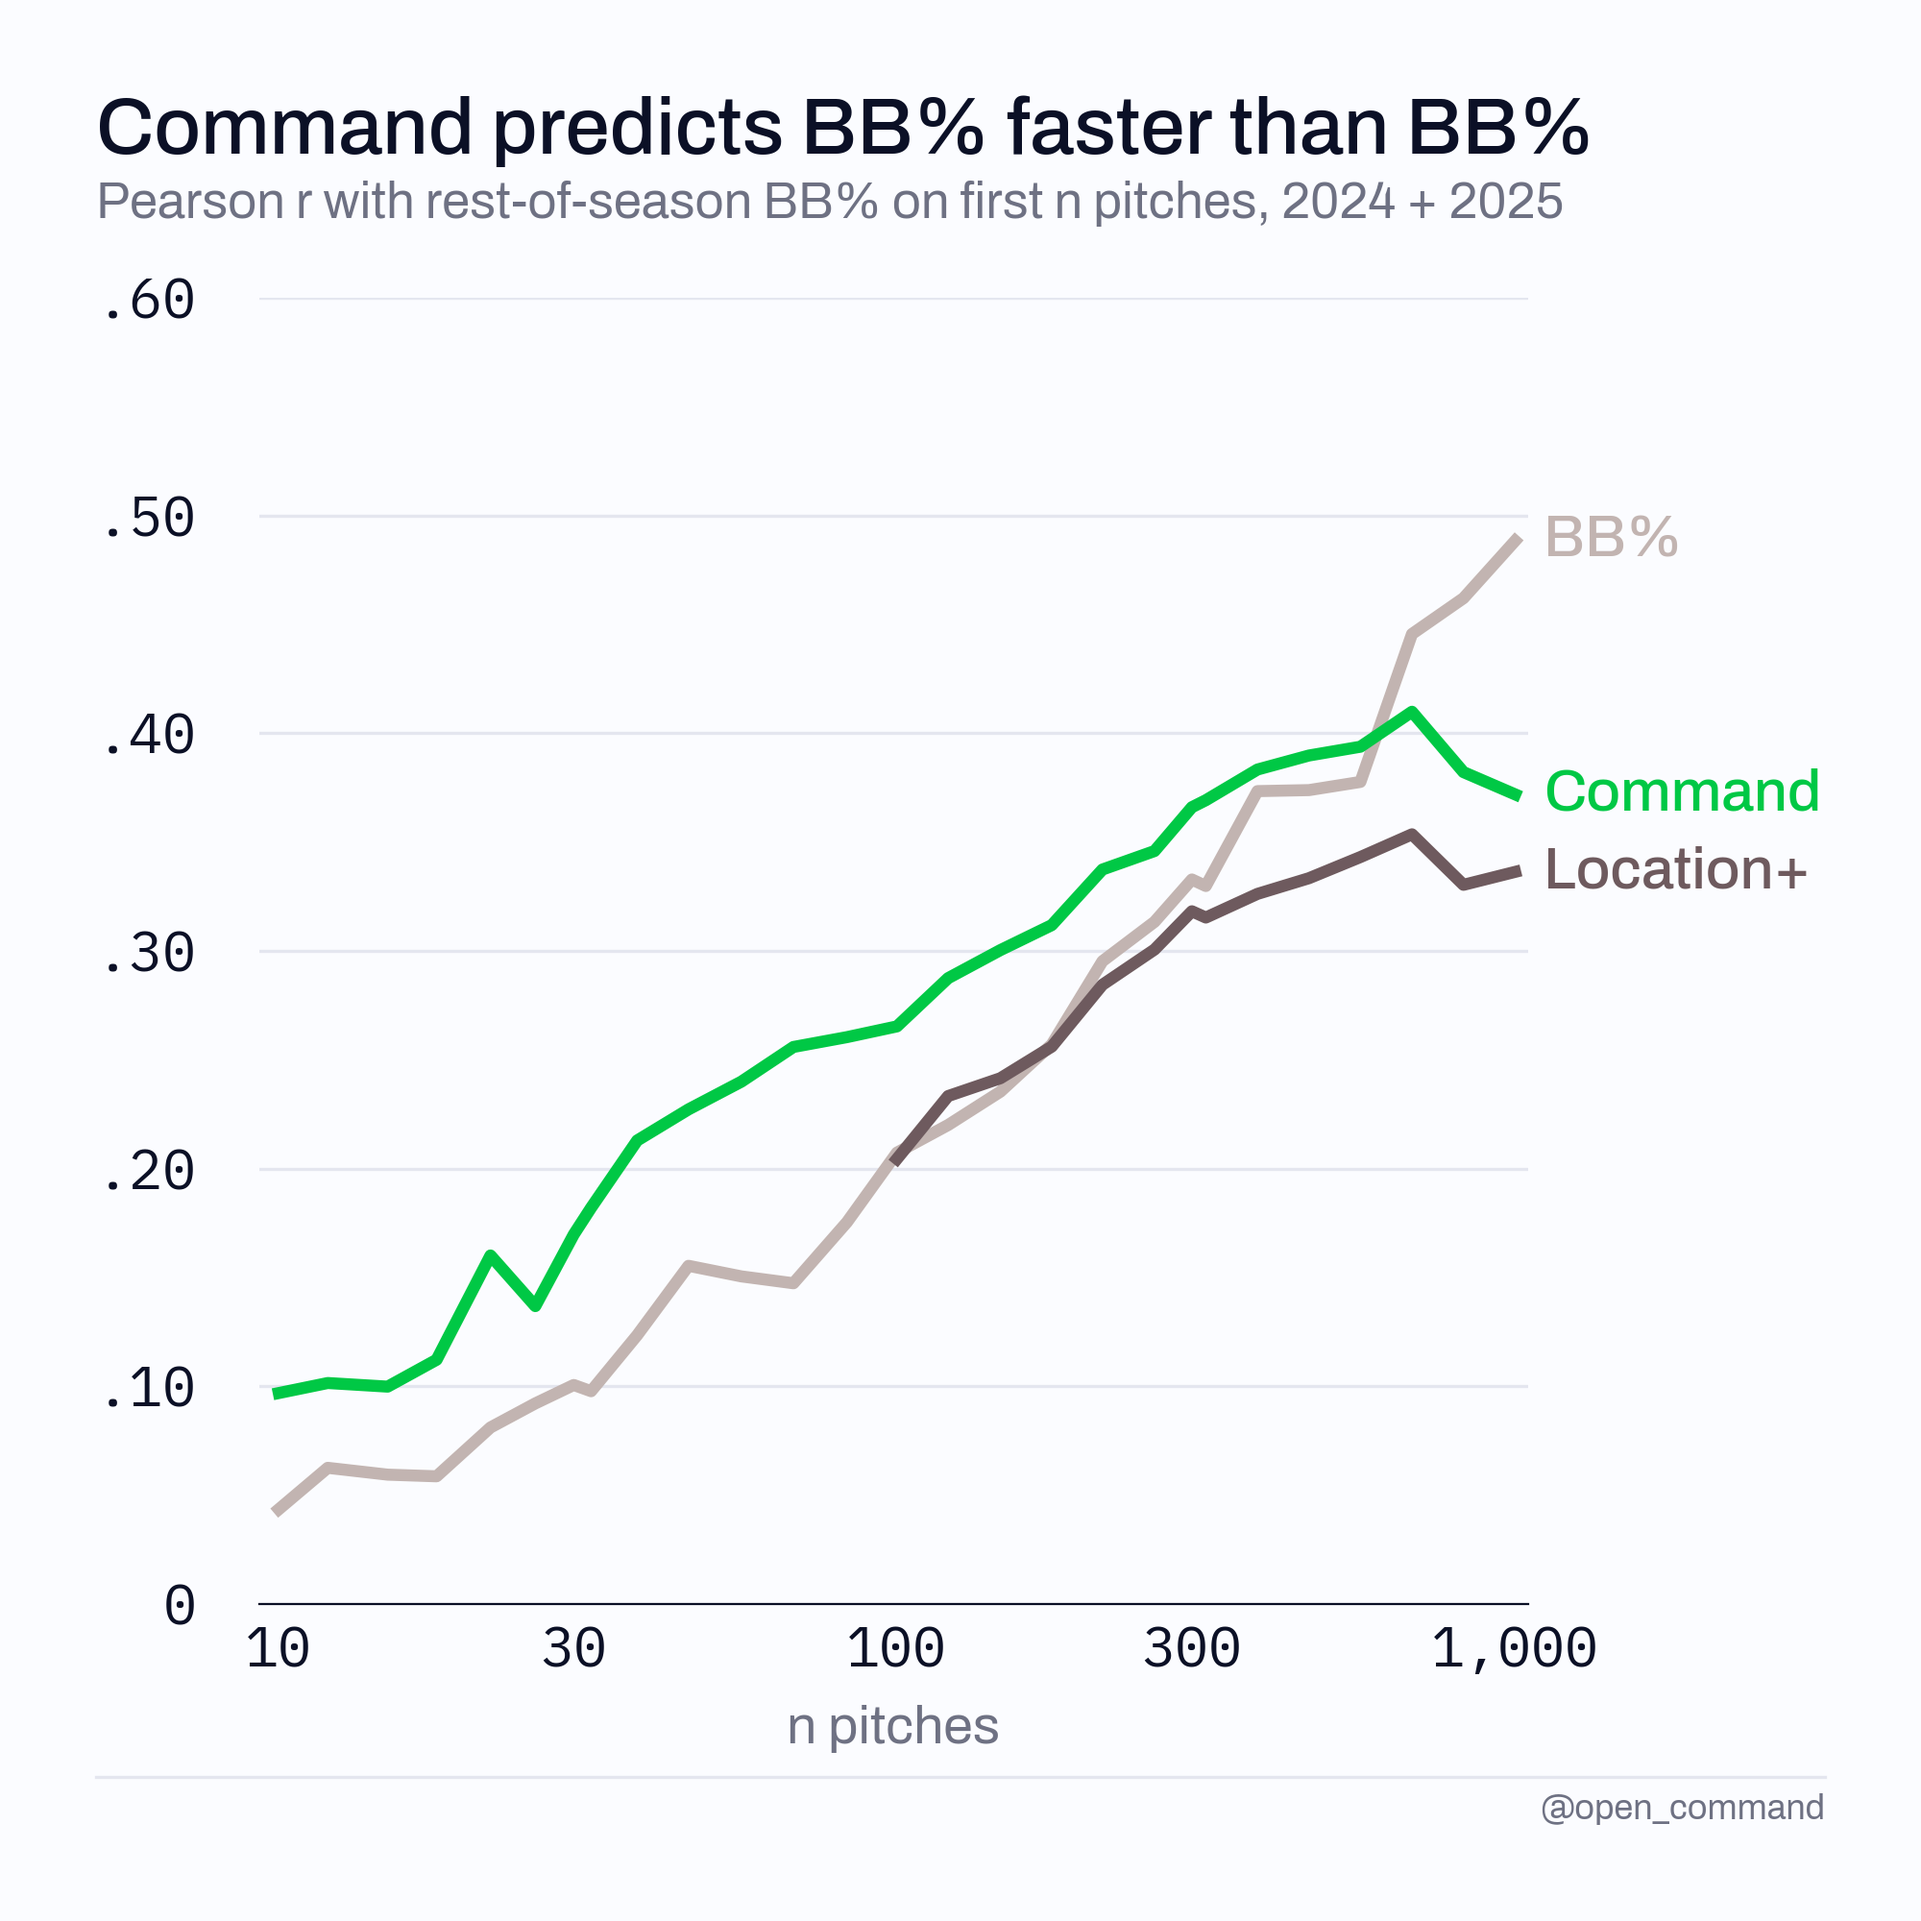
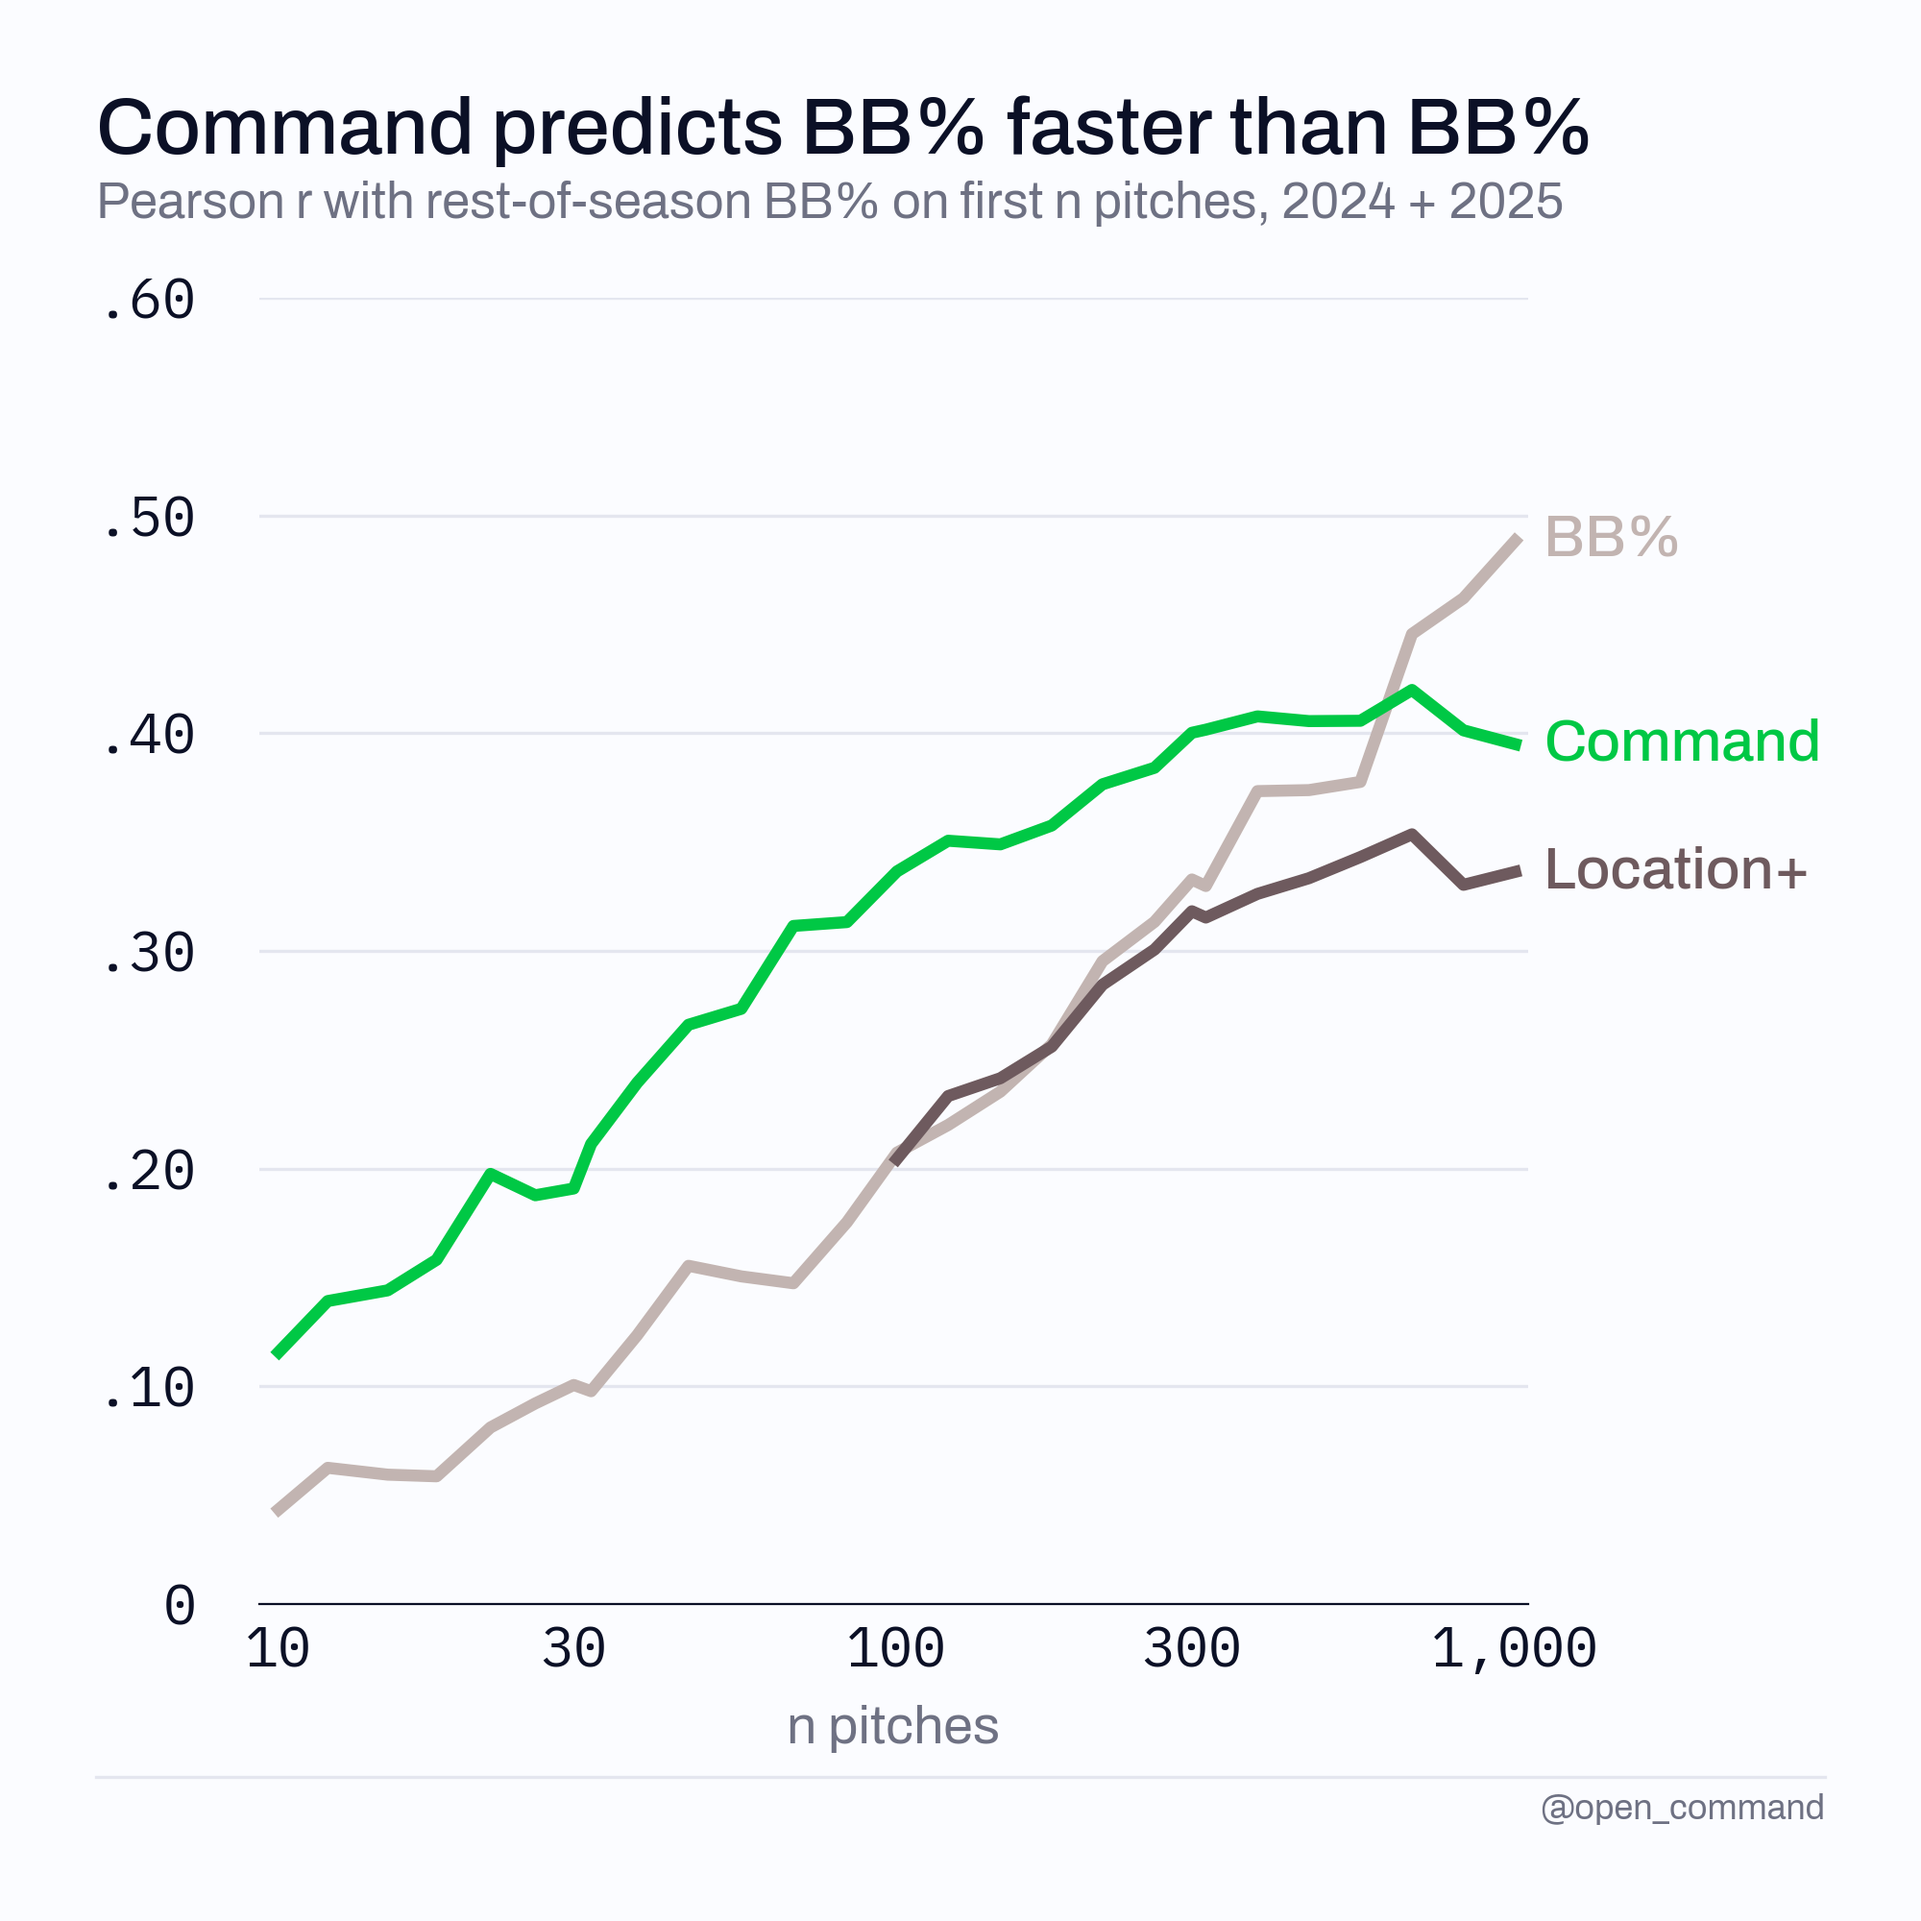
Added mean miss calculations

diff --git a/src/opencommand.py b/src/opencommand.py
@@ -97,6 +97,12 @@ def per_pitcher(m, pid, floor):
     return s[s["size"] >= floor]["median"]
 
 
+def per_pitcher_mean(m, pid, floor):
+    """Each pitcher's mean miss."""
+    s = m.groupby(pid).agg(["mean", "size"])
+    return s[s["size"] >= floor]["mean"]
+
+
 # ─────────────────────────────────────────────  validations
 
 def val_median_miss(d, whole):
@@ -221,14 +227,14 @@ def cell(x, y, control=None):
 
 def val_correlations(d, whole, fg, fg_next, season):
     """BB%, Location+, Stuff+, xERA, and next season."""
-    t = pd.DataFrame({name: per_pitcher(whole[name], d.pitcher_id, 1)   # every pitcher we scored
+    t = pd.DataFrame({name: per_pitcher_mean(whole[name], d.pitcher_id, 1)   # every pitcher we scored
                       for name, _ in METHODS})
     cols = ["BB%", "sp_location", "sp_stuff", "xERA", "Pitches"]
     t = t.join(fg.set_index("xMLBAMID")[cols], how="inner")
     t = t[t.Pitches >= MIN_N_SEASON]        # pitches THROWN, so the pool does not move with coverage
     assert len(t) > 100, f"the Fangraphs join found only {len(t)} pitchers"
 
-    L = ["CORRELATIONS (Pearson, whole season, unweighted)", "-" * 64,
+    L = ["CORRELATIONS (Pearson, mean miss, whole season, unweighted)", "-" * 64,
          f"  Min. {MIN_N_SEASON} pitches, N = {len(t)}", "",
          f"  {'':22s}" + "".join(f"{n:>26s}" for n, _ in METHODS)]
     for lab, col, ctrl in VALIDITY_ROWS:
@@ -310,7 +316,7 @@ def val_stabilization(d, whole, fg_all):
 
 def val_stickiness(d, whole, prev, prev_year, fg, fg_prev):
     """Year-over-year correlations."""
-    L = ["STICKINESS (unweighted)", "-" * 64]
+    L = ["STICKINESS (mean miss, unweighted)", "-" * 64]
     if prev is None:
         return L + [f"  skipped: no {prev_year} tree on disk", ""]
     prev_miss = {name: missed(fn, prev, prev) for name, fn in METHODS}   # one fit, both rows
@@ -319,8 +325,8 @@ def val_stickiness(d, whole, prev, prev_year, fg, fg_prev):
     r, pools, notes = {lab: [] for lab in labels}, [], []
     for floor in STICKY_NS:
         for name, _ in METHODS:
-            j = pd.DataFrame({"prev": per_pitcher(prev_miss[name], prev.pitcher_id, floor),
-                              "cur": per_pitcher(whole[name], d.pitcher_id, floor)}).dropna()
+            j = pd.DataFrame({"prev": per_pitcher_mean(prev_miss[name], prev.pitcher_id, floor),
+                              "cur": per_pitcher_mean(whole[name], d.pitcher_id, floor)}).dropna()
             r[name].append(j.prev.corr(j.cur))
             pool = j.index
         j = pd.DataFrame({"prev": fb(prev), "cur": fb(d)}).reindex(pool).dropna()

diff --git a/README.md b/README.md
@@ -211,7 +211,7 @@ A nice feature is that you can tell where the pitcher was *trying* to throw, whi
 - Inferred miss stabilizes 10x faster than Location+.
 - Inferred miss is stickier year-to-year than Location+, and even Stuff+.
 - Inferred miss correlates to BB% nearly as well as Location+.
-- Inferred miss predicts rest-of-season BB% better than BB% itself until about 500 pitches.
+- Inferred miss predicts rest-of-season BB% better than BB% itself until about 600 pitches.
 
 #### How close is OpenCommand to ground truth?
 
@@ -255,10 +255,6 @@ A nice feature is that you can tell where the pitcher was *trying* to throw, whi
 | Curveball (CU+KC) | 248 | 8.22 | 9.68 | 10.40 | 11.05 | 12.06 | 13.21 | 16.77 |
 | Changeup (CH) | 301 | 7.52 | 8.82 | 9.50 | 10.28 | 10.95 | 11.74 | 15.04 |
 | Splitter (FS) | 95 | 7.48 | 9.19 | 9.66 | 10.74 | 11.83 | 12.66 | 14.75 |
-
-#### **Why (~~mean~~) median miss?** 
-- Median is more robust to extreme values (e.g. due to bad inferred targets/glove detections/etc.)
-- Median (50th percentile) better answers "what's pitcher x's *typical* miss?". A pitcher can't miss by less than 0 in, but can spike one and get a 100 inch miss, which takes 100 pitches with 1 inch above mean miss to make up for it. So coloquially, median makes more sense as an "average".
 
 ## License & citation
 
